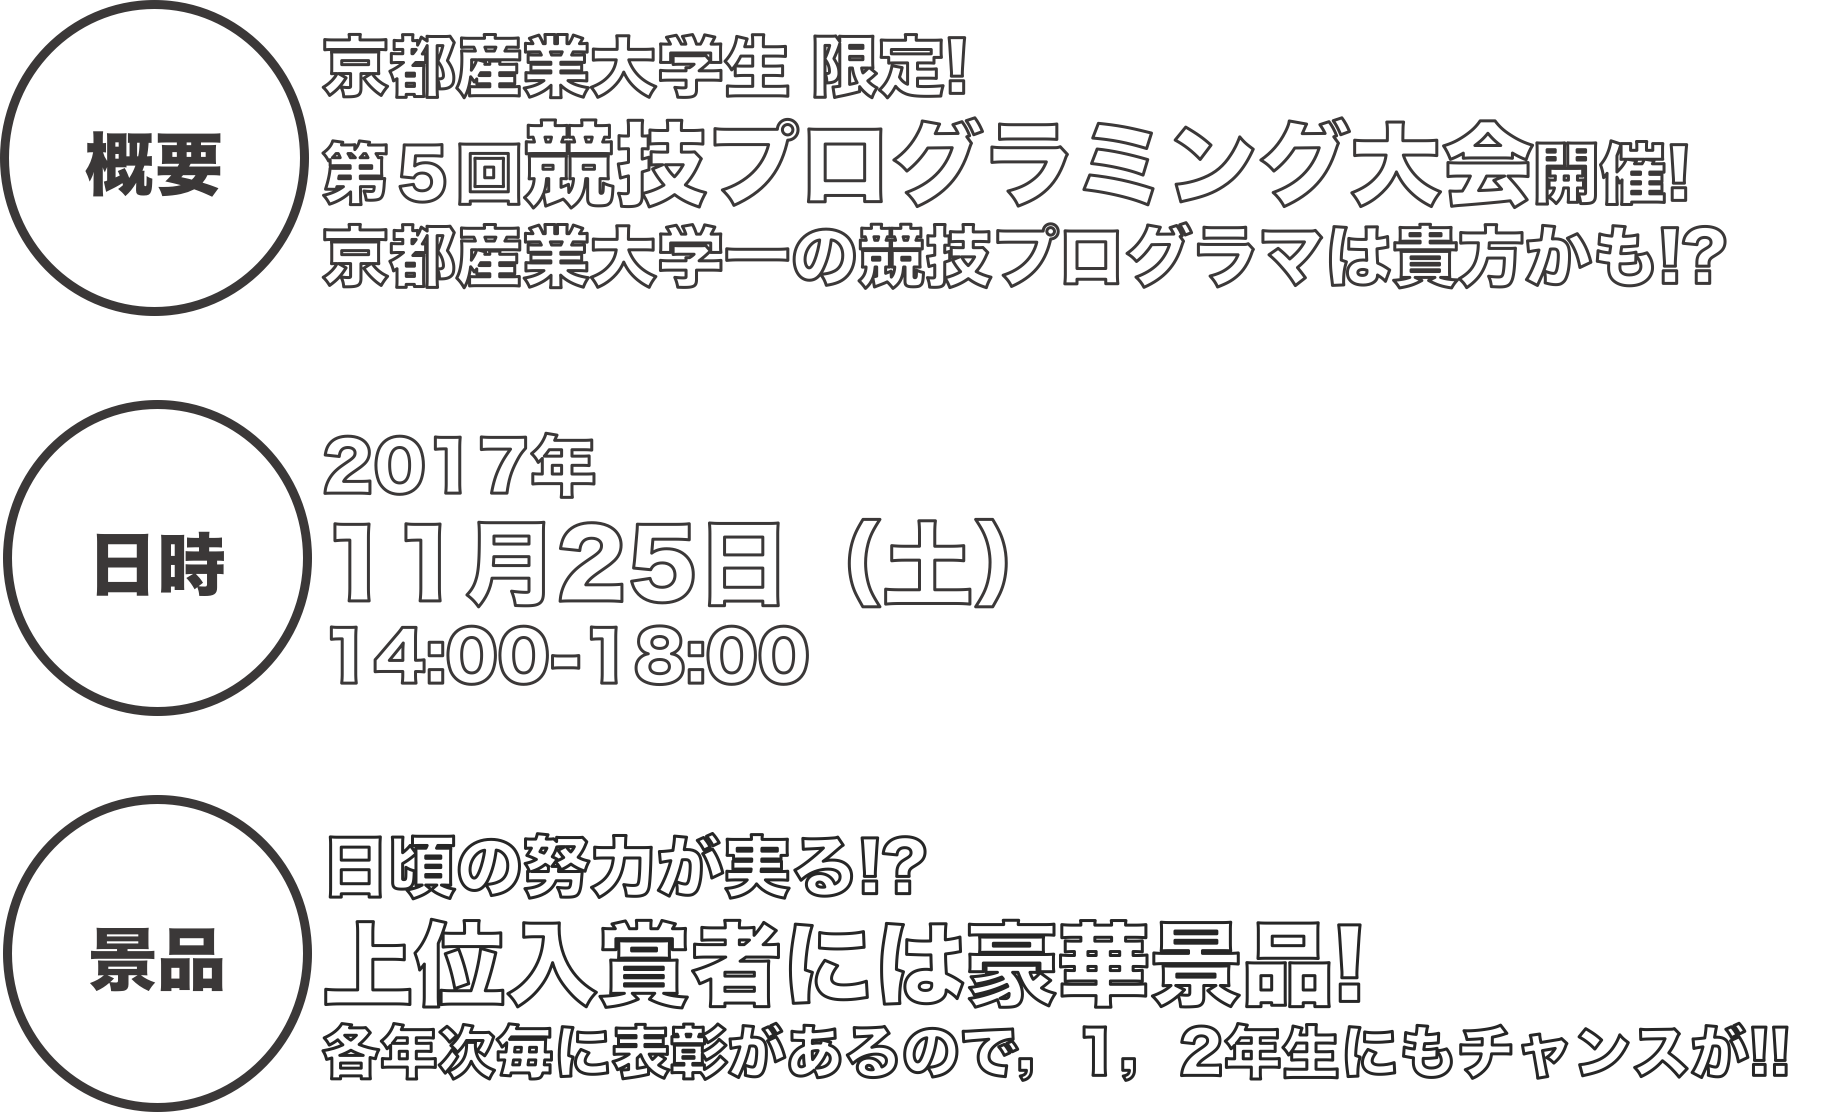
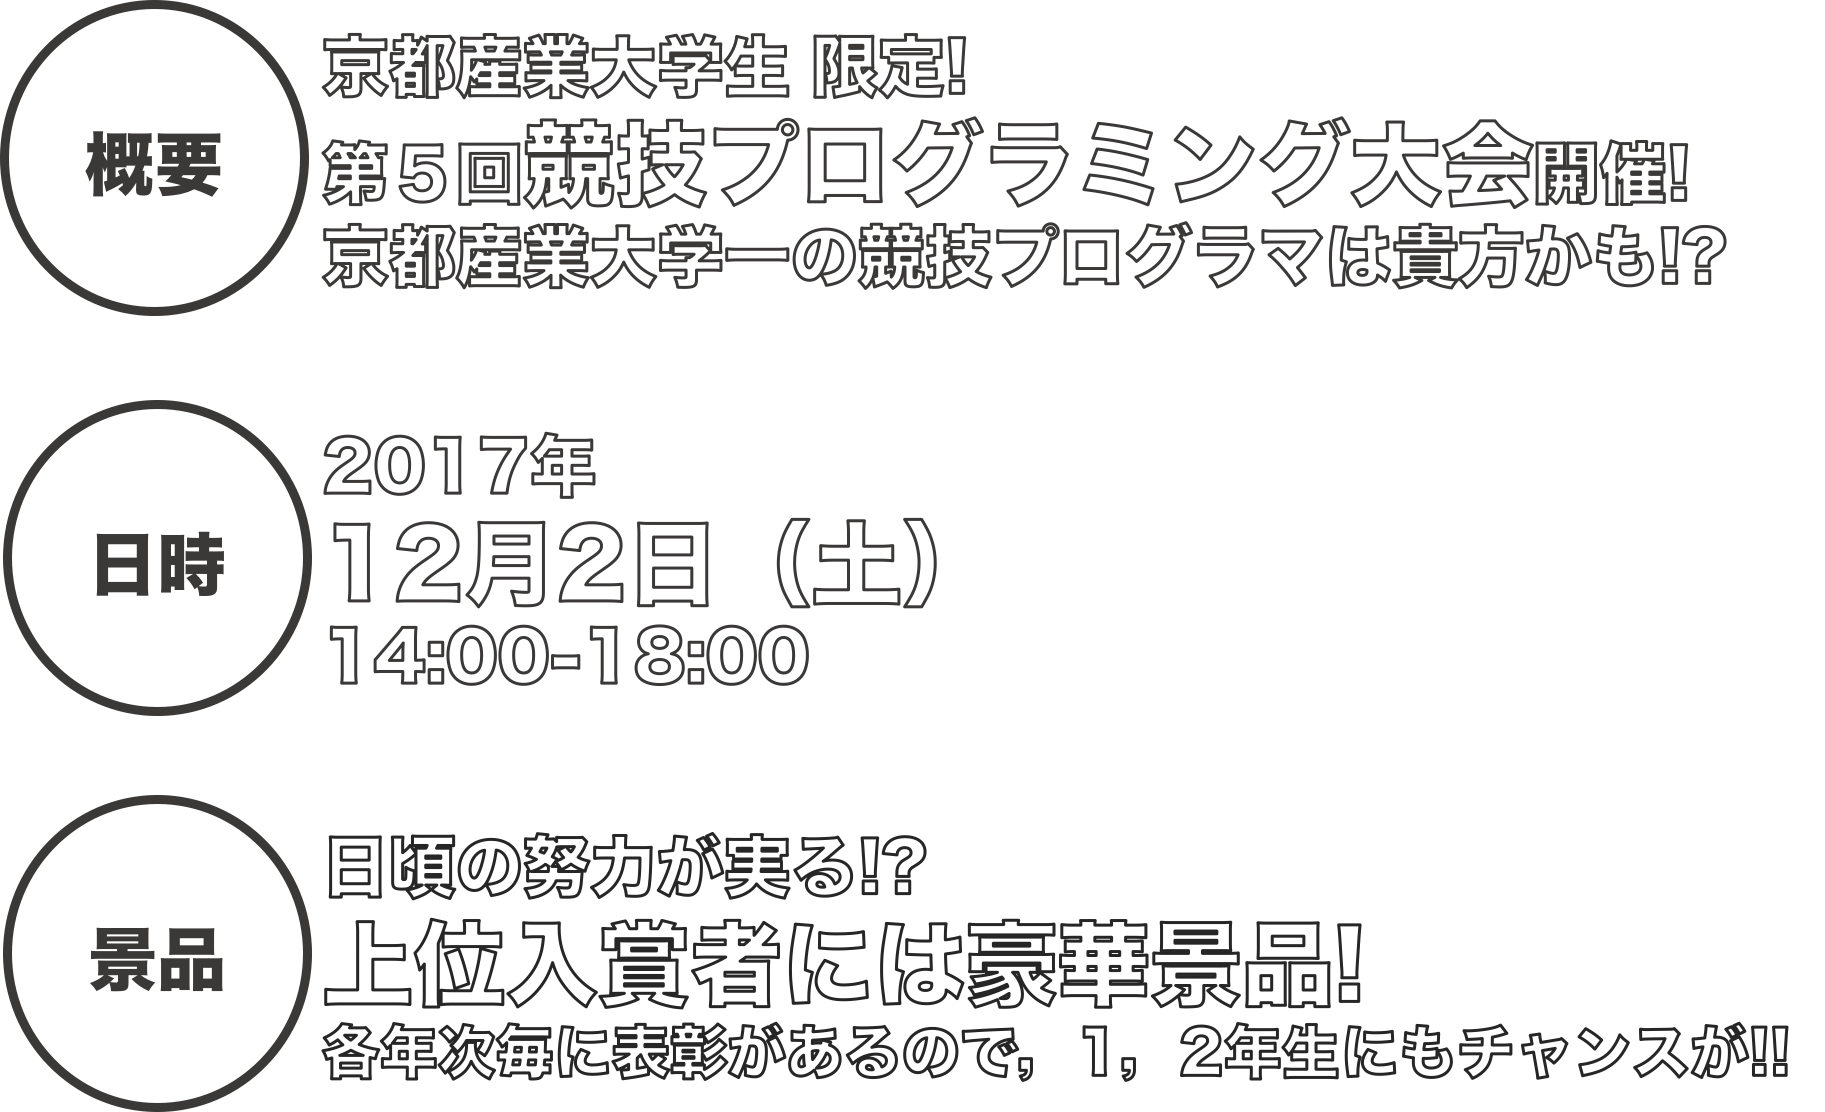
refs #4 開催日を12月2日に変更した

Changed region(s): [[0.3436, 0.4586, 0.5622, 0.5504], [0.2186, 0.4586, 0.2499, 0.5504]]

diff --git a/2017/index.html b/2017/index.html
@@ -58,7 +58,7 @@
                 <div class="card">
                     <div class="card-block">
                     <p class="card-title">開催名: TeraCoder2017</p>
-                    <p class="card-text">日程: 11月25日(土) 14:00 - 18:00</p>
+                    <p class="card-text">日程: 12月2日(土) 14:00 - 18:00</p>
                     <p class="card-text">会場: Webシステム上で開催 (TeraCoder Online Judge System)</p>
                     <p class="card-text">参加資格: 京都産業大学の学生/教員</p>
                     <p class="card-text">備考: Google検索可/言語制限なし/部門賞・ラッキー賞あり/本番中のネタバレ禁止/事前準備OK</p>
